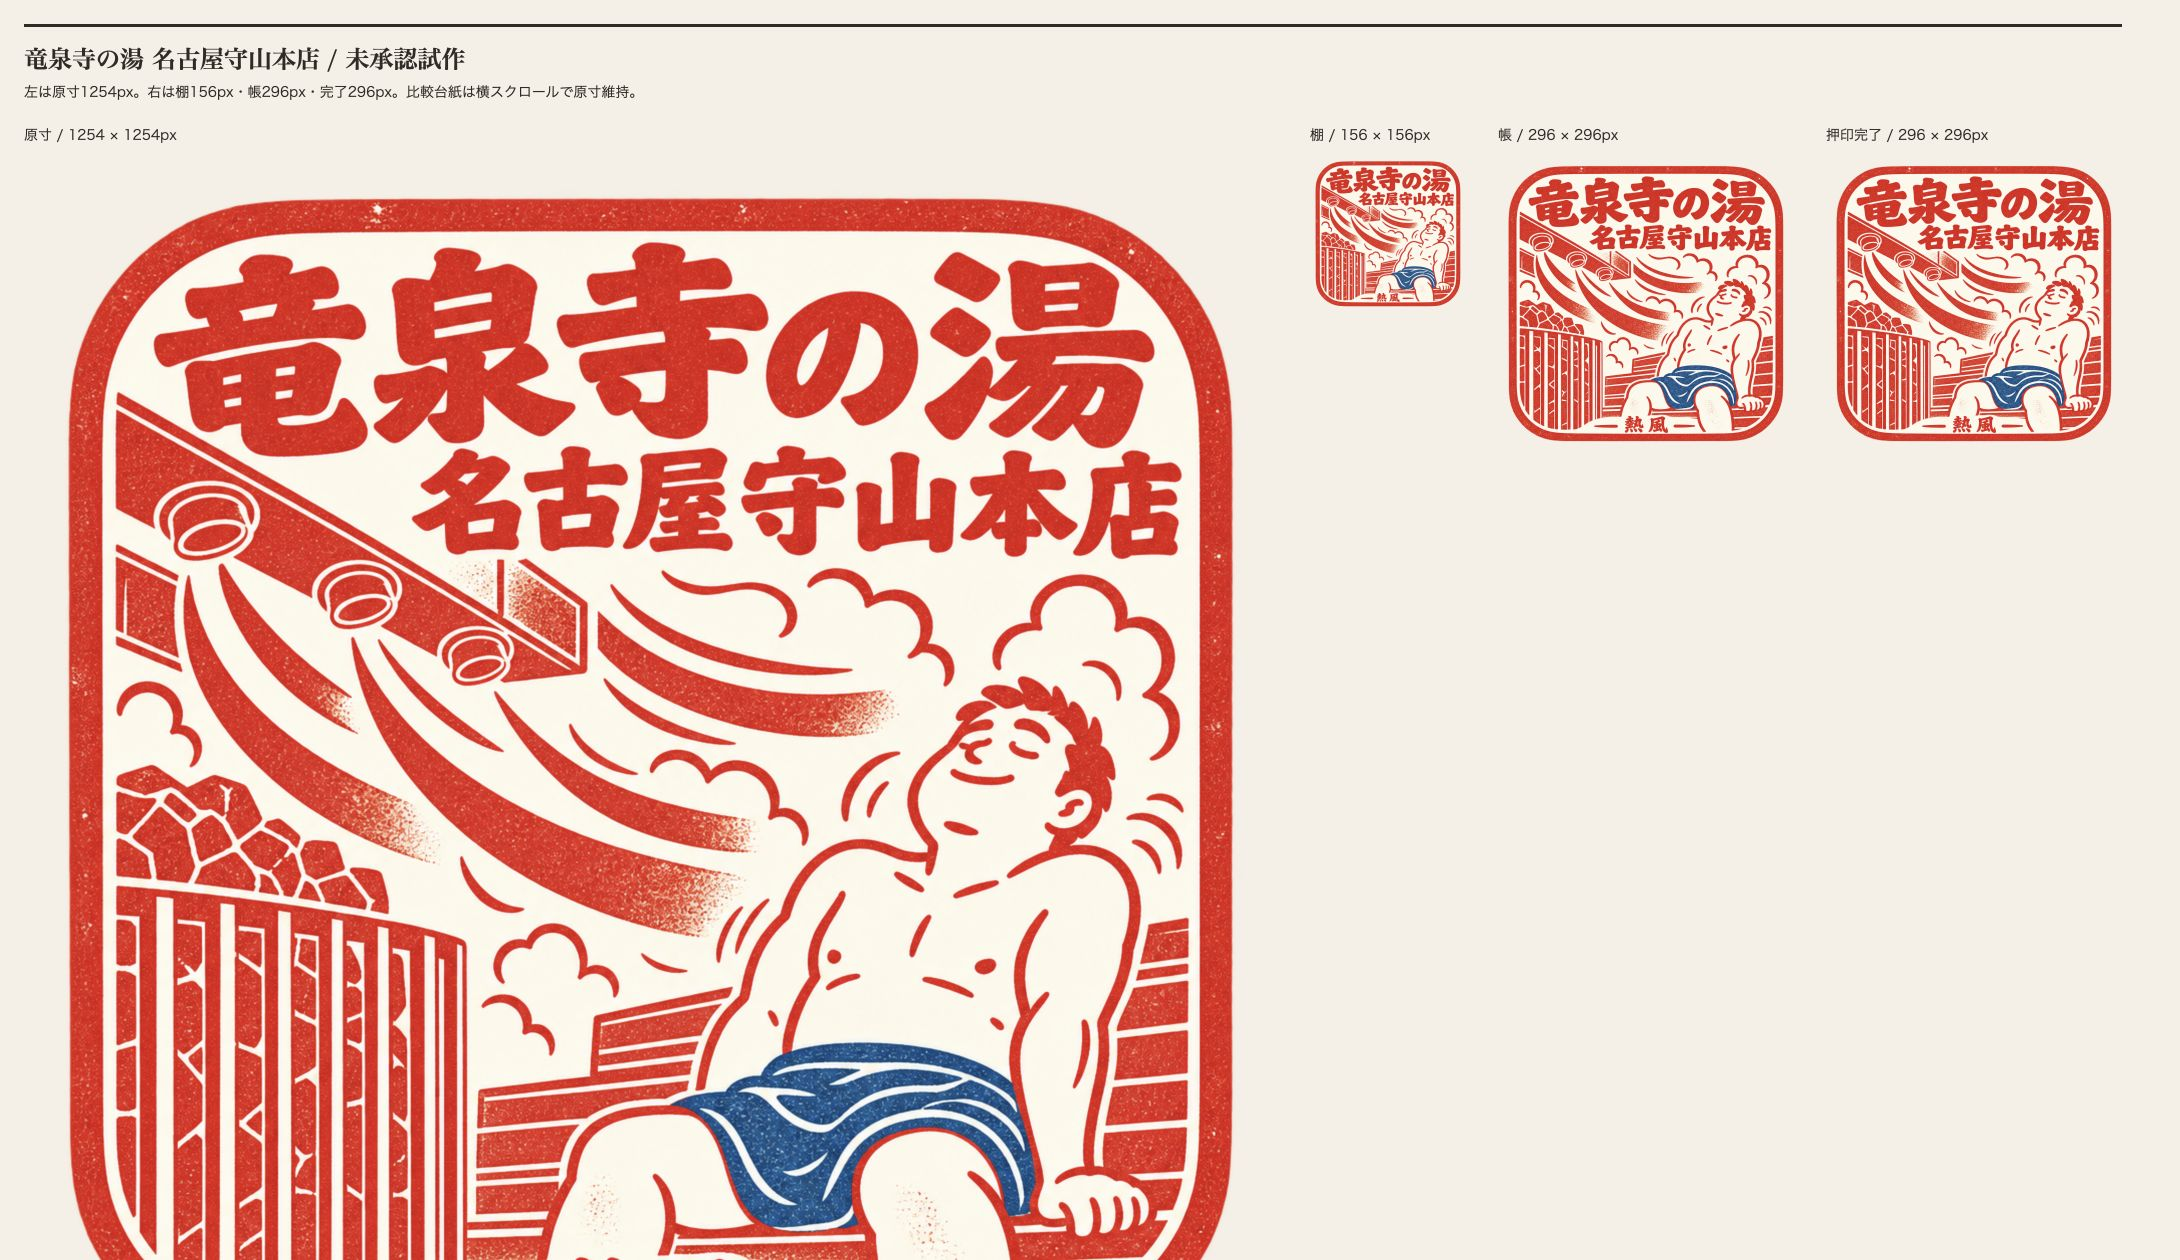
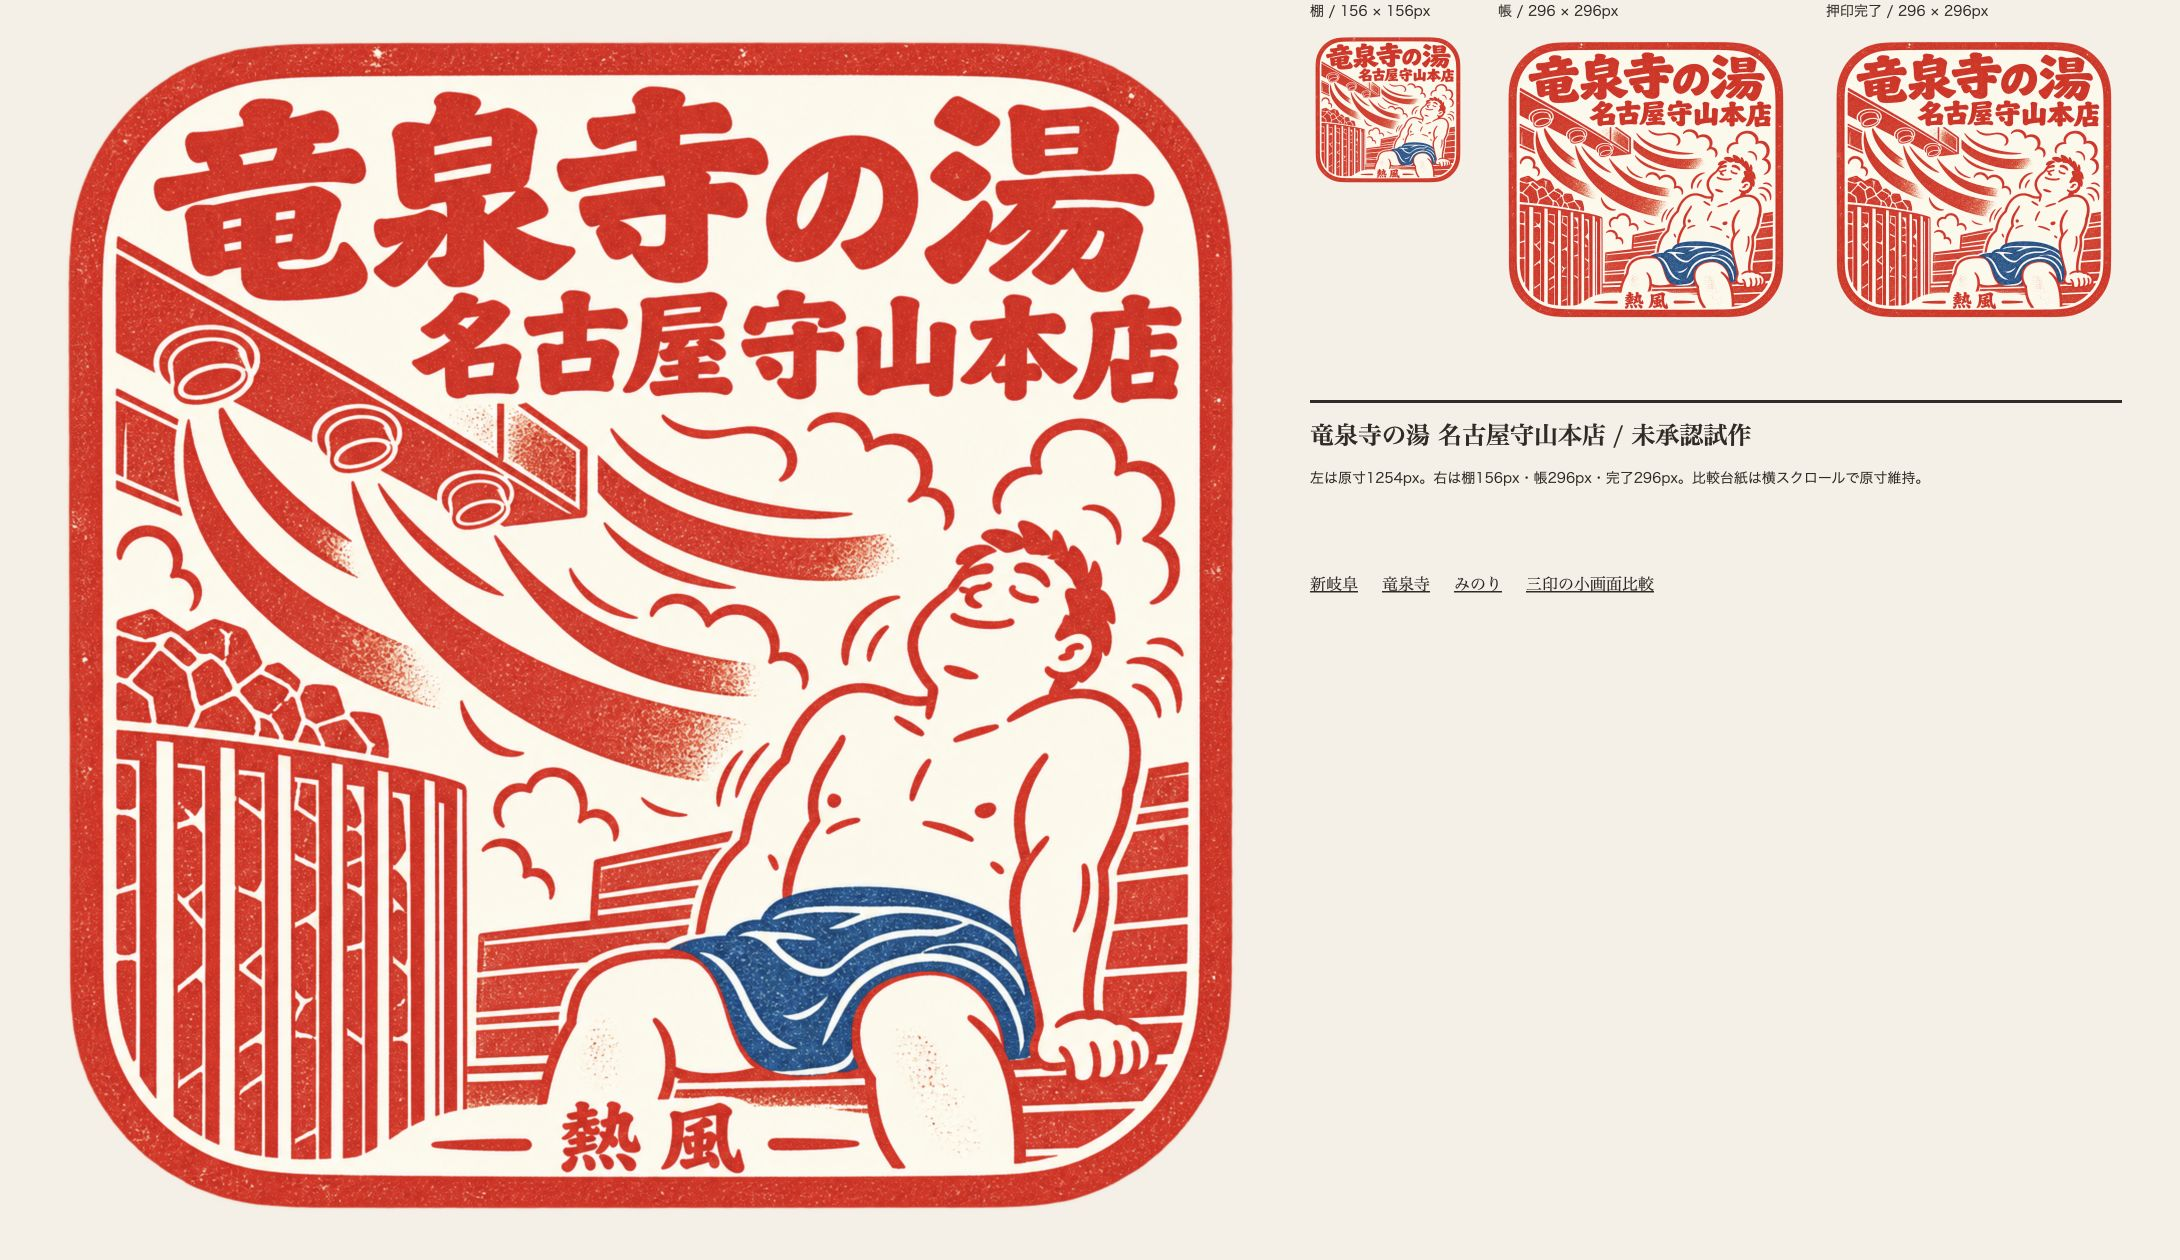
design: fit full native stamp height into comparison captures

diff --git a/assets/totonoi/seal-art/original-compare.html b/assets/totonoi/seal-art/original-compare.html
@@ -3,7 +3,7 @@
 <meta charset="utf-8"><meta name="viewport" content="width=device-width, initial-scale=1">
 <title>原寸と縮小 / 施設印比較</title>
 <style>
-*{box-sizing:border-box}body{margin:0;background:#f5f0e6;color:#302c26;font-family:"Hiragino Mincho ProN","Yu Mincho",serif}main{padding:24px;width:2146px}header{height:100px;border-top:3px solid #302c26}h1{font-size:24px;margin:14px 0 4px}p,figcaption{font-family:"Hiragino Kaku Gothic ProN",sans-serif;font-size:14px}p{margin:0}.row{display:flex;gap:32px;align-items:flex-start}figure{margin:0}figcaption{height:32px}img{display:block;object-fit:contain}nav{padding:12px 0}a{color:inherit;margin-right:24px}
+*{box-sizing:border-box}body{margin:0;background:#f5f0e6;color:#302c26;font-family:"Hiragino Mincho ProN","Yu Mincho",serif}main{padding:0 24px;width:2146px;position:relative}header{position:absolute;left:1310px;top:400px;width:812px;border-top:3px solid #302c26}h1{font-size:24px;margin:14px 0 12px}p,figcaption{font-family:"Hiragino Kaku Gothic ProN",sans-serif;font-size:14px}p{margin:0;line-height:1.8}.row{display:flex;gap:32px;align-items:flex-start}figure{margin:0}figcaption{height:32px}figure:first-child figcaption{display:none}img{display:block;object-fit:contain}nav{position:absolute;left:1310px;top:560px;padding:12px 0}a{color:inherit;margin-right:24px}
 </style>
 <main><header><h1 id="name"></h1><p>左は原寸1254px。右は棚156px・帳296px・完了296px。比較台紙は横スクロールで原寸維持。</p></header><div class="row" id="row"></div><nav><a href="?facility=g4">新岐阜</a><a href="?facility=a9">竜泉寺</a><a href="?facility=g6">みのり</a><a href="compare.html">三印の小画面比較</a></nav></main>
 <script>
